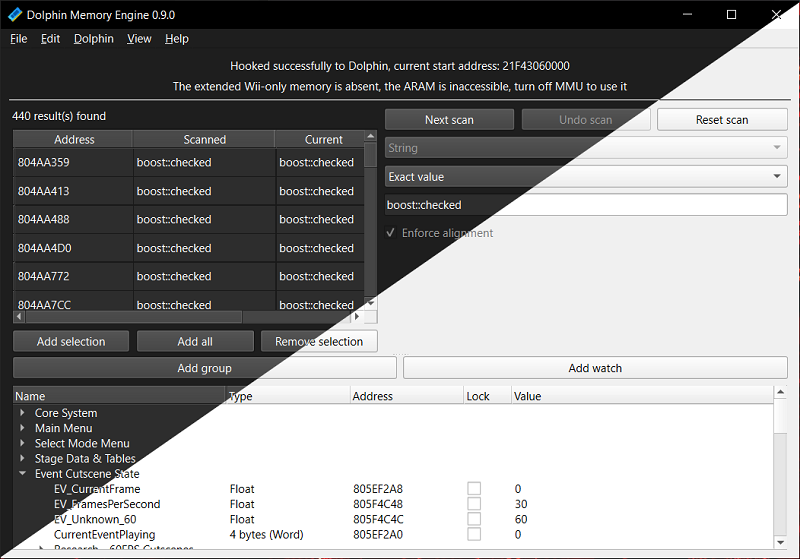
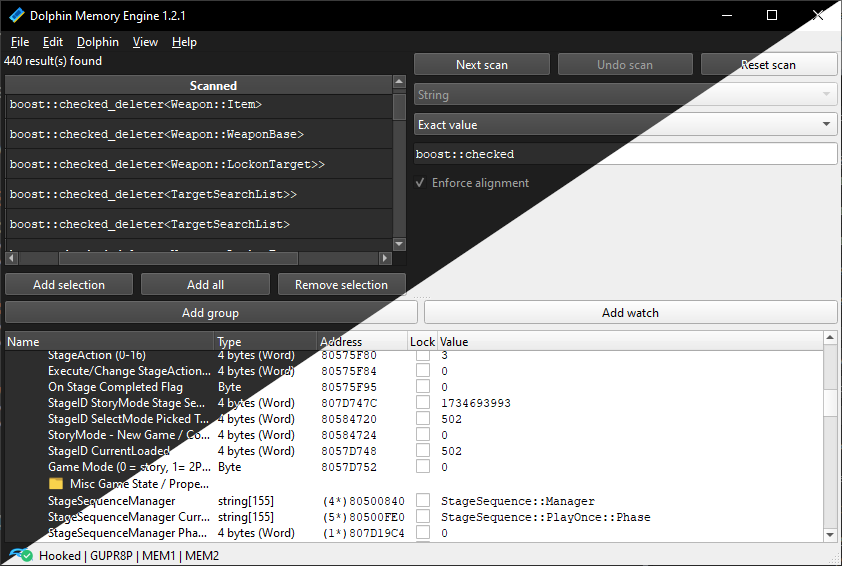
README: Update screenshot and fix typo

Changed region(s): [[0.0, 0.0, 1.0, 1.0], [0.7188, 0.5474, 0.7812, 0.5778], [0.9688, 0.0, 1.0, 0.0304]]

diff --git a/README.md b/README.md
@@ -115,7 +115,7 @@ Options:
                                                      on Linux or macOS).
 ```
 
-## Troubleshouting
+## Troubleshooting
 
 On Linux, the program may require additional kernel permissions to be able to read and write memory to external processes (which is required to read and write the memory of Dolphin).  If nothing happens to Dolphin, but the program frequently unhooks itself, the program is missing the required permissions.  Grant these permissions by running the following command as root:
 
@@ -128,4 +128,4 @@ If it doesn't work, verify that you do not have the `nosuid` mount flag on your 
 On macOS, Dolphin (upon install or after an update) must be signed with specific entitlements to permit memory access. Follow the instructions [above](#macos-code-signing).
 
 ## License
-This program is licensed under the MIT license which grants you the permission to do  anything you wish to with the software, as long as you preserve all copyright notices. (See the file LICENSE for the legal text.)
+This program is licensed under the MIT license which grants you the permission to do anything you wish to with the software, as long as you preserve all copyright notices. (See the file LICENSE for the legal text.)
